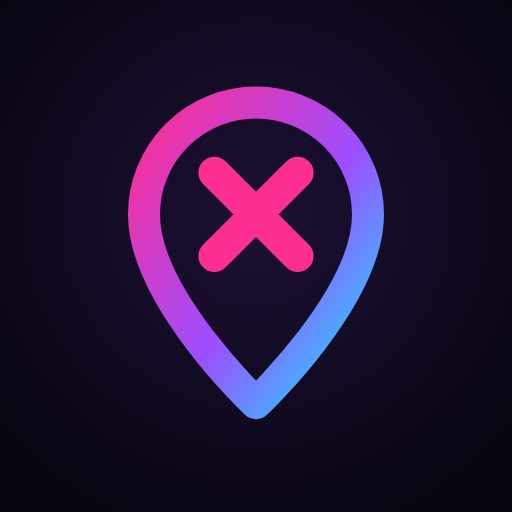
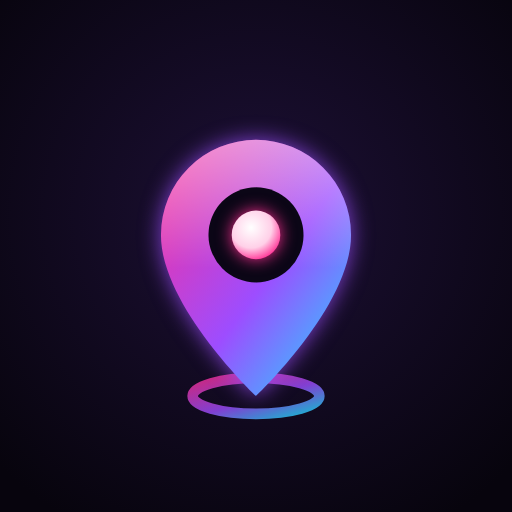
New SPOTX mark: gradient pin with a glowing spot, no X
- The mark is now a filled pink-purple-cyan map pin with a glowing spot inside, standing on a ring
  (ui.tsx Mark, shared by the header and the Loader; per-instance gradient ids).
- Loaders show the SPOTX wordmark under the mark; the pin bounces on its rippling ring. The small
  in-button loader stays mark-only. The boot screen in index.html matches.
- Regenerated favicon.svg, favicon.ico, icon-192/512, the maskable icon, apple-touch-icon and the
  share image (og-default.png, cache-busted with ?v=spotx2); the offline page shows the mark.

Changed region(s): [[0.25, 0.1562, 0.75, 0.8438]]

diff --git a/web/src/styles.css b/web/src/styles.css
@@ -73,35 +73,35 @@ button, input, select { font: inherit; color: inherit; }
   background: var(--grad); opacity: .6;
 }
 .top-row { display: flex; align-items: center; gap: 20px; height: 68px; }
-/* The brand: a map pin that draws itself, then its X (X marks the spot), beside the SPOTX wordmark.
-   Drawn once on load; the X glows; hovering drops the pin in again. Same mark as the boot screen and Loader. */
+/* The brand: a gradient map pin with a glowing spot over a ring, beside the SPOTX wordmark (ui.tsx Mark).
+   The pin drops in on load and the spot pulses; hovering drops it again. The boot screen in index.html matches. */
 .logo { display: inline-flex; align-items: center; gap: 8px; flex: none; direction: ltr; color: var(--text); }
-.logo .word { font: 900 24px/1 var(--display); letter-spacing: .5px; text-shadow: 0 0 18px rgb(255 46 147 / .45); }
-.logo .word span { color: var(--pink); text-shadow: 0 0 10px var(--pink), 0 0 26px rgb(255 46 147 / .6); animation: flicker 6s infinite; }
+.logo .word, .loader .word { font: 900 24px/1 var(--display); letter-spacing: .5px; text-shadow: 0 0 18px rgb(255 46 147 / .45); direction: ltr; }
+.logo .word span, .loader .word span { color: var(--pink); text-shadow: 0 0 10px var(--pink), 0 0 26px rgb(255 46 147 / .6); animation: flicker 6s infinite; }
 .mark { overflow: visible; }
-.mark path { fill: none; stroke-width: 4.5; stroke-linecap: round; stroke-linejoin: round; }
-.mark .x { stroke: var(--pink); }
-.logo .mark { width: 26px; height: 33px; transform-origin: 50% 100%; }
-.logo .pin { stroke-dasharray: 150; stroke-dashoffset: 150; filter: drop-shadow(0 0 4px rgb(157 77 255 / .7));
-  animation: mark-draw 1.1s cubic-bezier(.65, 0, .35, 1) .15s forwards; }
-.logo .x { stroke-dasharray: 40; stroke-dashoffset: 40;
-  animation: mark-draw .45s ease-out 1.1s forwards, x-glow 3.6s ease-in-out 1.8s infinite; }
-.logo:hover .mark { animation: pin-drop .7s cubic-bezier(.3, 1.6, .5, 1); }
-@keyframes mark-draw { to { stroke-dashoffset: 0; } }
-@keyframes x-glow { 50% { filter: drop-shadow(0 0 5px var(--pink)) drop-shadow(0 0 12px var(--pink)); } }
-@keyframes pin-drop { 0% { transform: translateY(-7px) scaleY(1.06); } 60% { transform: translateY(0) scaleY(.92); } 100% { transform: none; } }
-/* The brand loader (ui.tsx Loader): the mark drawing in a loop, full size for a page, small inside a button. */
-.loader { display: grid; place-items: center; padding: 60px 0; }
-.loader .mark { width: 54px; height: 70px; }
-.loader .pin { stroke-dasharray: 150; stroke-dashoffset: 150; filter: drop-shadow(0 0 6px rgb(157 77 255 / .7));
-  animation: pin-loop 2.4s cubic-bezier(.65, 0, .35, 1) infinite; }
-.loader .x { stroke-dasharray: 40; stroke-dashoffset: 40; filter: drop-shadow(0 0 6px var(--pink)); animation: x-loop 2.4s ease-in-out infinite; }
+.mark .ring { fill: none; stroke-width: 2; opacity: .8; transform-box: fill-box; transform-origin: center; }
+.mark .pin { transform-box: fill-box; transform-origin: 50% 100%; filter: drop-shadow(0 0 4px rgb(157 77 255 / .7)); }
+.mark .dot { filter: drop-shadow(0 0 3px var(--pink)); }
+.logo .mark { width: 26px; height: 36px; }
+.logo .pin { animation: pin-drop .8s cubic-bezier(.3, 1.6, .5, 1) .1s backwards; }
+.logo .dot { animation: dot-glow 3.6s ease-in-out 1s infinite; }
+.logo:hover .pin { animation: pin-drop .7s cubic-bezier(.3, 1.6, .5, 1); }
+@keyframes pin-drop { 0% { transform: translateY(-30%) scaleY(1.06); opacity: 0; } 60% { transform: translateY(0) scaleY(.9); opacity: 1; } 100% { transform: none; } }
+@keyframes dot-glow { 50% { filter: drop-shadow(0 0 4px var(--pink)) drop-shadow(0 0 10px var(--pink)); } }
+/* The brand loader (ui.tsx Loader): the pin bouncing on its ring, which ripples out, over the SPOTX wordmark;
+   small (mark only) inside a button. */
+.loader { display: grid; place-items: center; gap: 14px; padding: 60px 0; }
+.loader .mark { width: 54px; height: 76px; }
+.loader .word { font-size: 30px; }
+.loader .pin { animation: pin-bounce 1.2s cubic-bezier(.45, 0, .55, 1) infinite; }
+.loader .ring { animation: ring-ripple 1.2s ease-out infinite; }
+.loader .dot { animation: dot-glow 1.2s ease-in-out infinite; }
 .loader.small { display: inline-grid; padding: 0; vertical-align: middle; }
-.loader.small .mark { width: 16px; height: 21px; }
-@keyframes pin-loop { 45%, 70% { stroke-dashoffset: 0; } 100% { stroke-dashoffset: -150; } }
-@keyframes x-loop { 0%, 35% { stroke-dashoffset: 40; } 55%, 75% { stroke-dashoffset: 0; } 100% { stroke-dashoffset: -40; } }
+.loader.small .mark { width: 16px; height: 22px; }
+@keyframes pin-bounce { 0%, 100% { transform: none; } 15% { transform: scaleY(.88) scaleX(1.06); } 50% { transform: translateY(-22%); } }
+@keyframes ring-ripple { 0%, 10% { transform: scale(.6); opacity: .9; } 100% { transform: scale(1.5); opacity: 0; } }
 @media (prefers-reduced-motion: reduce) {
-  .mark path, .logo:hover .mark { animation: none; stroke-dashoffset: 0; }
+  .mark .pin, .mark .ring, .mark .dot { animation: none !important; }
 }
 @keyframes flicker {
   0%, 92%, 96%, 100% { opacity: 1; text-shadow: 0 0 8px var(--pink), 0 0 24px var(--pink); }

diff --git a/web/src/ui.tsx b/web/src/ui.tsx
@@ -1,4 +1,4 @@
-import { Fragment, useEffect, useRef, useState, type ReactNode } from "react";
+import { Fragment, useEffect, useId, useRef, useState, type ReactNode } from "react";
 import { Link, NavLink, Outlet } from "react-router-dom";
 import { useCategories, useEvents, useLandingInfo, type Params } from "./api";
 import { CITIES, STRINGS, genreLabel, type Lang, type Strings } from "./i18n";
@@ -98,7 +98,7 @@ export function Layout() {
       <header className="top">
         <div className="wrap top-row">
           <Link className="logo" to="/" aria-label="SPOTX">
-            <svg className="mark" viewBox="11 5 42 54" aria-hidden="true"><defs><linearGradient id="logo-grad" x1="0" y1="0" x2="1" y2="1"><stop offset="0" stopColor="#ff2e93" /><stop offset=".55" stopColor="#9d4dff" /><stop offset="1" stopColor="#19e3ff" /></linearGradient></defs><path className="pin" d="M32 55C32 55 14.5 38.5 14.5 25.5a17.5 17.5 0 0 1 35 0C49.5 38.5 32 55 32 55Z" stroke="url(#logo-grad)" /><path className="x" d="M25.5 19l13 13M38.5 19l-13 13" /></svg>
+            <Mark />
             <span className="word">SPOT<span>X</span></span>
           </Link>
           <nav className="nav">
@@ -355,7 +355,6 @@ export function CardSkeletons({ n }: { n: number }) {
   );
 }
 
-/** The brand loader: the boot screen's mark (a line to an X). `small` sits inline in a button or bar. */
 /** An email address that is never in the page as text: GET /site sends it reversed and base64-encoded,
  * and only a person's click decodes it and links it (harvesters read the HTML, the JSON and mailto links). */
 export function HiddenEmail({ code, subject }: { code: string | undefined; subject?: string }) {
@@ -371,11 +370,35 @@ export function HiddenEmail({ code, subject }: { code: string | undefined; subje
   return <a href={`mailto:${email}${subject ? `?subject=${encodeURIComponent(subject)}` : ""}`} dir="ltr">{email}</a>;
 }
 
+/** The brand mark: a gradient map pin with a glowing spot, standing on a ring. Same drawing as favicon.svg
+ * and the boot screen in index.html. Gradient ids are per instance (several marks share a page). */
+export function Mark() {
+  const id = useId();
+  return (
+    <svg className="mark" viewBox="12 5 40 56" aria-hidden="true">
+      <defs>
+        <linearGradient id={`${id}g`} x1="0" y1="0" x2="1" y2="1"><stop offset="0" stopColor="#ff2e93" /><stop offset=".55" stopColor="#9d4dff" /><stop offset="1" stopColor="#19e3ff" /></linearGradient>
+        <linearGradient id={`${id}s`} x1="0" y1="0" x2="0" y2="1"><stop offset="0" stopColor="#fff" stopOpacity=".45" /><stop offset=".5" stopColor="#fff" stopOpacity="0" /></linearGradient>
+        <radialGradient id={`${id}d`} cx=".4" cy=".35" r=".7"><stop offset="0" stopColor="#fff" /><stop offset=".6" stopColor="#ffd0e8" /><stop offset="1" stopColor="#ff2e93" /></radialGradient>
+      </defs>
+      <ellipse className="ring" cx="32" cy="56" rx="12" ry="3.4" stroke={`url(#${id}g)`} />
+      <g className="pin">
+        <path d="M32 56C32 56 14 39 14 25.5a18 18 0 0 1 36 0C50 39 32 56 32 56Z" fill={`url(#${id}g)`} />
+        <path d="M32 56C32 56 14 39 14 25.5a18 18 0 0 1 36 0C50 39 32 56 32 56Z" fill={`url(#${id}s)`} />
+        <circle cx="32" cy="25.5" r="9" fill="#0b0616" />
+        <circle className="dot" cx="32" cy="25.5" r="4.6" fill={`url(#${id}d)`} />
+      </g>
+    </svg>
+  );
+}
+
+/** The brand loader: the mark bouncing on its ring over the SPOTX wordmark. `small` (mark only) sits inline in a button or bar. */
 export function Loader({ small }: { small?: boolean }) {
   const { t } = useT();
   return (
     <span className={small ? "loader small" : "loader"} role="status" aria-label={t.loading}>
-      <svg className="mark" viewBox="11 5 42 54" aria-hidden="true"><defs><linearGradient id="loader-grad" x1="0" y1="0" x2="1" y2="1"><stop offset="0" stopColor="#ff2e93" /><stop offset=".55" stopColor="#9d4dff" /><stop offset="1" stopColor="#19e3ff" /></linearGradient></defs><path className="pin" d="M32 55C32 55 14.5 38.5 14.5 25.5a17.5 17.5 0 0 1 35 0C49.5 38.5 32 55 32 55Z" stroke="url(#loader-grad)" /><path className="x" d="M25.5 19l13 13M38.5 19l-13 13" /></svg>
+      <Mark />
+      {!small && <b className="word">SPOT<span>X</span></b>}
     </span>
   );
 }

diff --git a/web/index.html b/web/index.html
@@ -25,26 +25,25 @@
       #boot.done { opacity: 0; visibility: hidden; }
       #boot b { text-shadow: 0 0 22px rgb(255 46 147 / .6); direction: ltr; letter-spacing: 1px; }
       #boot b span { color: #ff2e93; text-shadow: 0 0 10px #ff2e93, 0 0 30px #ff2e93; }
-      /* The brand mark: the pin draws itself, then the X; it loops while the app loads (as ui.tsx Loader). */
-      #boot .mark { width: 72px; height: 92px; overflow: visible; }
-      #boot .mark path { fill: none; stroke-width: 4.5; stroke-linecap: round; stroke-linejoin: round; }
-      #boot .pin { stroke-dasharray: 150; stroke-dashoffset: 150; filter: drop-shadow(0 0 6px rgb(157 77 255 / .7));
-        animation: pin-loop 2.4s cubic-bezier(.65, 0, .35, 1) infinite; }
-      #boot .x { stroke: #ff2e93; stroke-dasharray: 40; stroke-dashoffset: 40; filter: drop-shadow(0 0 6px #ff2e93);
-        animation: x-loop 2.4s ease-in-out infinite; }
-      @keyframes pin-loop { 45%, 70% { stroke-dashoffset: 0; } 100% { stroke-dashoffset: -150; } }
-      @keyframes x-loop { 0%, 35% { stroke-dashoffset: 40; } 55%, 75% { stroke-dashoffset: 0; } 100% { stroke-dashoffset: -40; } }
+      /* The brand mark bouncing on its rippling ring while the app loads (as ui.tsx Loader). */
+      #boot .mark { width: 72px; height: 100px; overflow: visible; }
+      #boot .ring { fill: none; stroke-width: 2; transform-box: fill-box; transform-origin: center; animation: ring-ripple 1.2s ease-out infinite; }
+      #boot .pin { transform-box: fill-box; transform-origin: 50% 100%; filter: drop-shadow(0 0 6px rgb(157 77 255 / .7));
+        animation: pin-bounce 1.2s cubic-bezier(.45, 0, .55, 1) infinite; }
+      #boot .dot { filter: drop-shadow(0 0 4px #ff2e93); }
+      @keyframes pin-bounce { 0%, 100% { transform: none; } 15% { transform: scaleY(.88) scaleX(1.06); } 50% { transform: translateY(-22%); } }
+      @keyframes ring-ripple { 0%, 10% { transform: scale(.6); opacity: .9; } 100% { transform: scale(1.5); opacity: 0; } }
       @keyframes boot-out { to { opacity: 0; visibility: hidden; } }
       /* If the app never loads (script blocked or failed), the prerendered page shows after 12s. */
       .ssr { opacity: 0; animation: ssr-in 0s 12s forwards; }
       @keyframes ssr-in { to { opacity: 1; } }
-      @media (prefers-reduced-motion: reduce) { #boot .mark path { animation: none; stroke-dashoffset: 0; } }
+      @media (prefers-reduced-motion: reduce) { #boot .pin, #boot .ring { animation: none; } }
     </style>
     <noscript><style>#boot { display: none; } .ssr { opacity: 1; animation: none; }</style></noscript>
   </head>
   <body>
     <div id="boot" role="status" aria-label="Loading">
-      <svg class="mark" viewBox="11 5 42 54" aria-hidden="true"><defs><linearGradient id="boot-grad" x1="0" y1="0" x2="1" y2="1"><stop offset="0" stop-color="#ff2e93"/><stop offset=".55" stop-color="#9d4dff"/><stop offset="1" stop-color="#19e3ff"/></linearGradient></defs><path class="pin" d="M32 55C32 55 14.5 38.5 14.5 25.5a17.5 17.5 0 0 1 35 0C49.5 38.5 32 55 32 55Z" stroke="url(#boot-grad)"/><path class="x" d="M25.5 19l13 13M38.5 19l-13 13"/></svg>
+      <svg class="mark" viewBox="12 5 40 56" aria-hidden="true"><defs><linearGradient id="bt-g" x1="0" y1="0" x2="1" y2="1"><stop offset="0" stop-color="#ff2e93"/><stop offset=".55" stop-color="#9d4dff"/><stop offset="1" stop-color="#19e3ff"/></linearGradient><linearGradient id="bt-s" x1="0" y1="0" x2="0" y2="1"><stop offset="0" stop-color="#fff" stop-opacity=".45"/><stop offset=".5" stop-color="#fff" stop-opacity="0"/></linearGradient><radialGradient id="bt-d" cx=".4" cy=".35" r=".7"><stop offset="0" stop-color="#fff"/><stop offset=".6" stop-color="#ffd0e8"/><stop offset="1" stop-color="#ff2e93"/></radialGradient></defs><ellipse class="ring" cx="32" cy="56" rx="12" ry="3.4" stroke="url(#bt-g)"/><g class="pin"><path d="M32 56C32 56 14 39 14 25.5a18 18 0 0 1 36 0C50 39 32 56 32 56Z" fill="url(#bt-g)"/><path d="M32 56C32 56 14 39 14 25.5a18 18 0 0 1 36 0C50 39 32 56 32 56Z" fill="url(#bt-s)"/><circle cx="32" cy="25.5" r="9" fill="#0b0616"/><circle class="dot" cx="32" cy="25.5" r="4.6" fill="url(#bt-d)"/></g></svg>
       <b>SPOT<span>X</span></b>
     </div>
     <div id="root"></div>

diff --git a/web/public/offline.html b/web/public/offline.html
@@ -32,6 +32,7 @@
 </head>
 <body>
   <main>
+    <img src="/favicon.svg" width="72" height="72" alt="" style="opacity:.55;filter:grayscale(.6)" />
     <div class="logo">SPOT<span>X</span></div>
     <!-- The brand line without its X: nowhere to go without a connection. -->
     <svg viewBox="0 0 200 44" aria-hidden="true"><path d="M0 22h200" /></svg>

diff --git a/web/public/sw.js b/web/public/sw.js
@@ -1,6 +1,6 @@
 // Offline page only: a page load that fails (no connection) gets /offline.html. Nothing else is
 // cached, so the site is always fresh online. Bump VERSION when offline.html changes.
-const VERSION = "offline-v1";
+const VERSION = "offline-v2";
 const OFFLINE = "/offline.html";
 
 self.addEventListener("install", (event) => {

diff --git a/src/partylinks/seo.py b/src/partylinks/seo.py
@@ -1070,7 +1070,7 @@ def _jsonld_tag(data: dict[str, Any]) -> str:
 
 def render(template: str, page: Page, cfg: Settings) -> str:
     canonical = _url(cfg, page.path, page.lang if page.lang in page.langs else page.langs[0])
-    image = page.image or f"{cfg.site.base_url}/og-default.png?v=spotx"
+    image = page.image or f"{cfg.site.base_url}/og-default.png?v=spotx2"
     t = TEXT[page.lang]
     other = "en" if page.lang == "he" else "he"
     head = [
